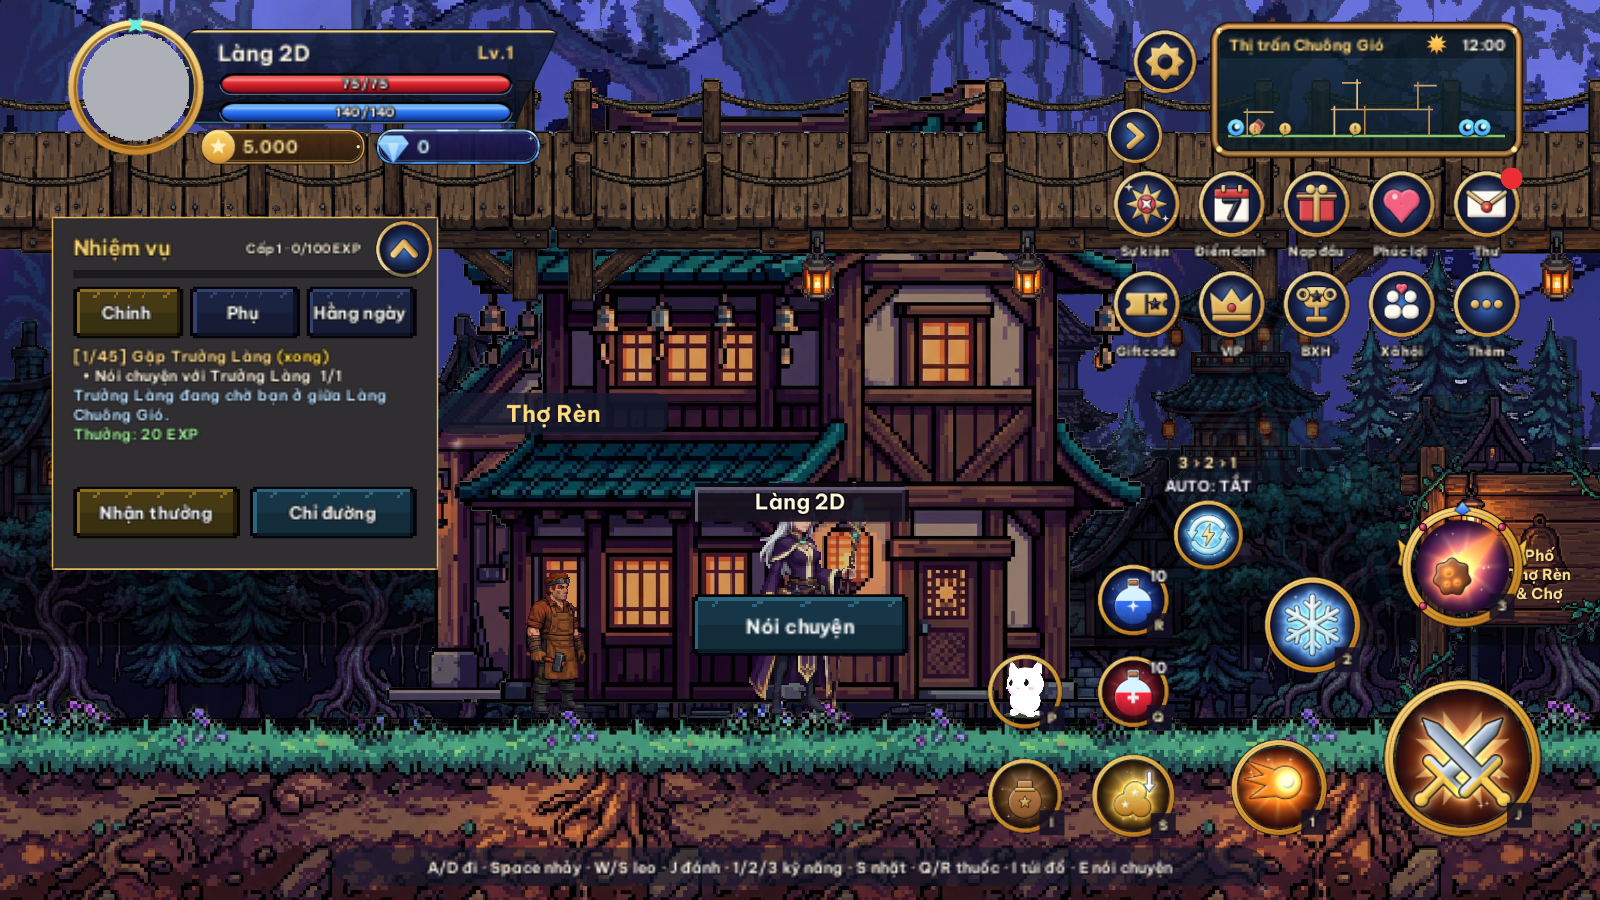
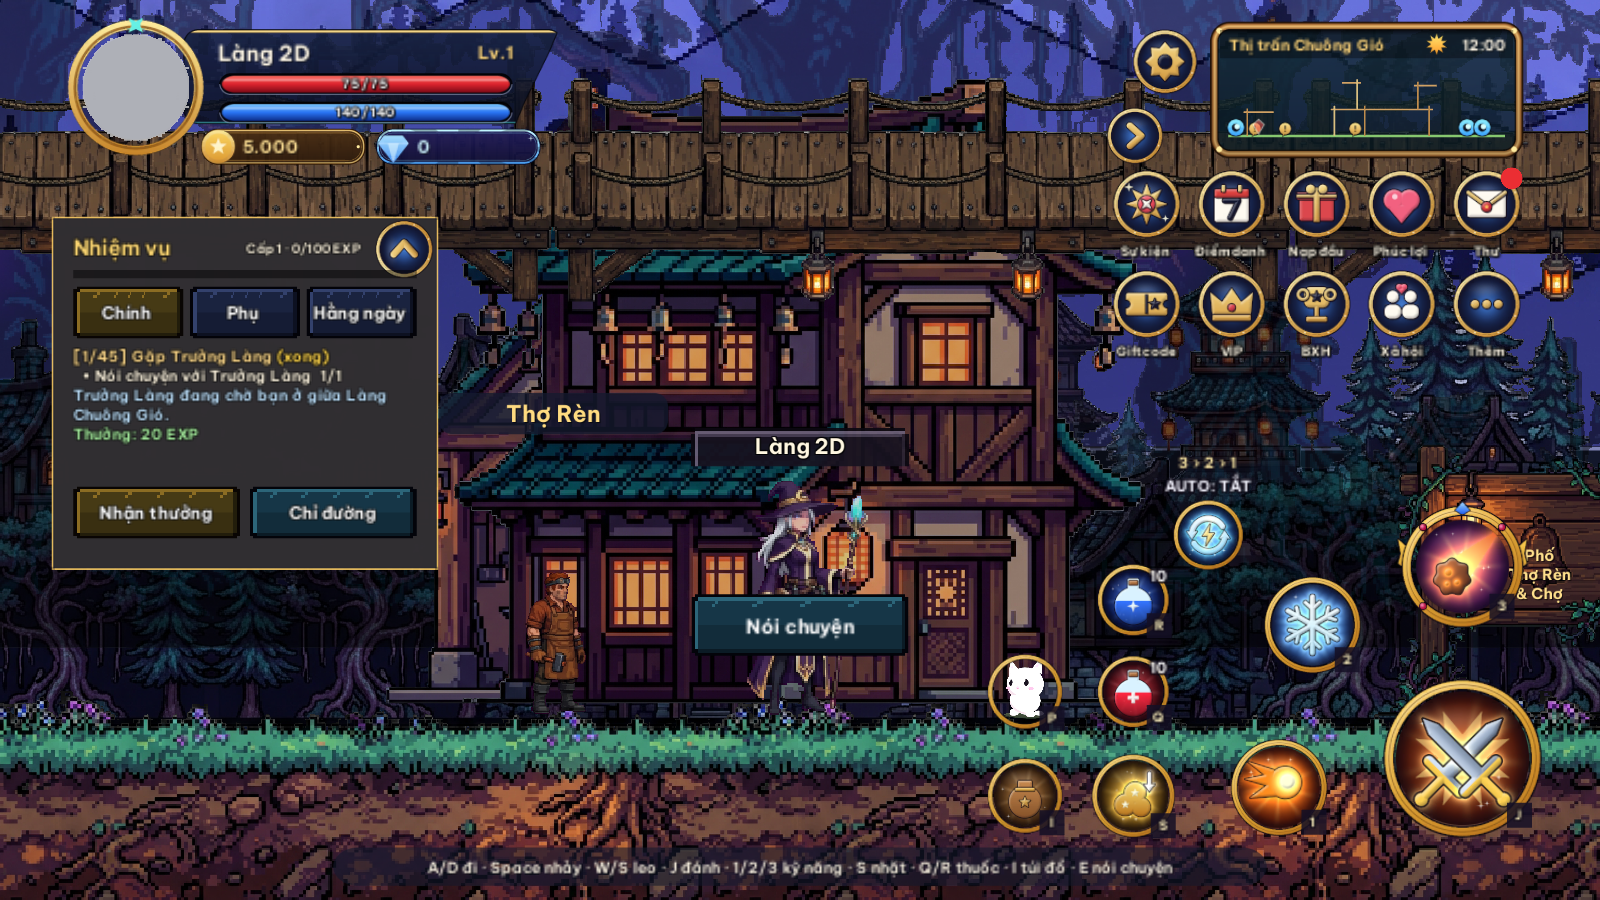
Player nameplate raised so it no longer covers the face

Changed region(s): [[0.4375, 0.4667, 0.5625, 0.6533], [0.4688, 0.7156, 0.5312, 0.7778]]

diff --git a/Assets/Scripts/Gameplay/PlayerNameplate.cs b/Assets/Scripts/Gameplay/PlayerNameplate.cs
@@ -102,7 +102,7 @@ namespace AdventureKing.Gameplay
                 if (!head) return;
             }
             // follow the head (x) at a steady height above it, unaffected by the hero turning
-            plate.position = new Vector3(head.position.x, head.position.y + aboveHead, transform.position.z - 0.3f);
+            plate.position = new Vector3(head.position.x, head.position.y + aboveHead + 0.45f,transform.position.z - 0.3f);
             plate.rotation = Quaternion.identity;
         }
     }
